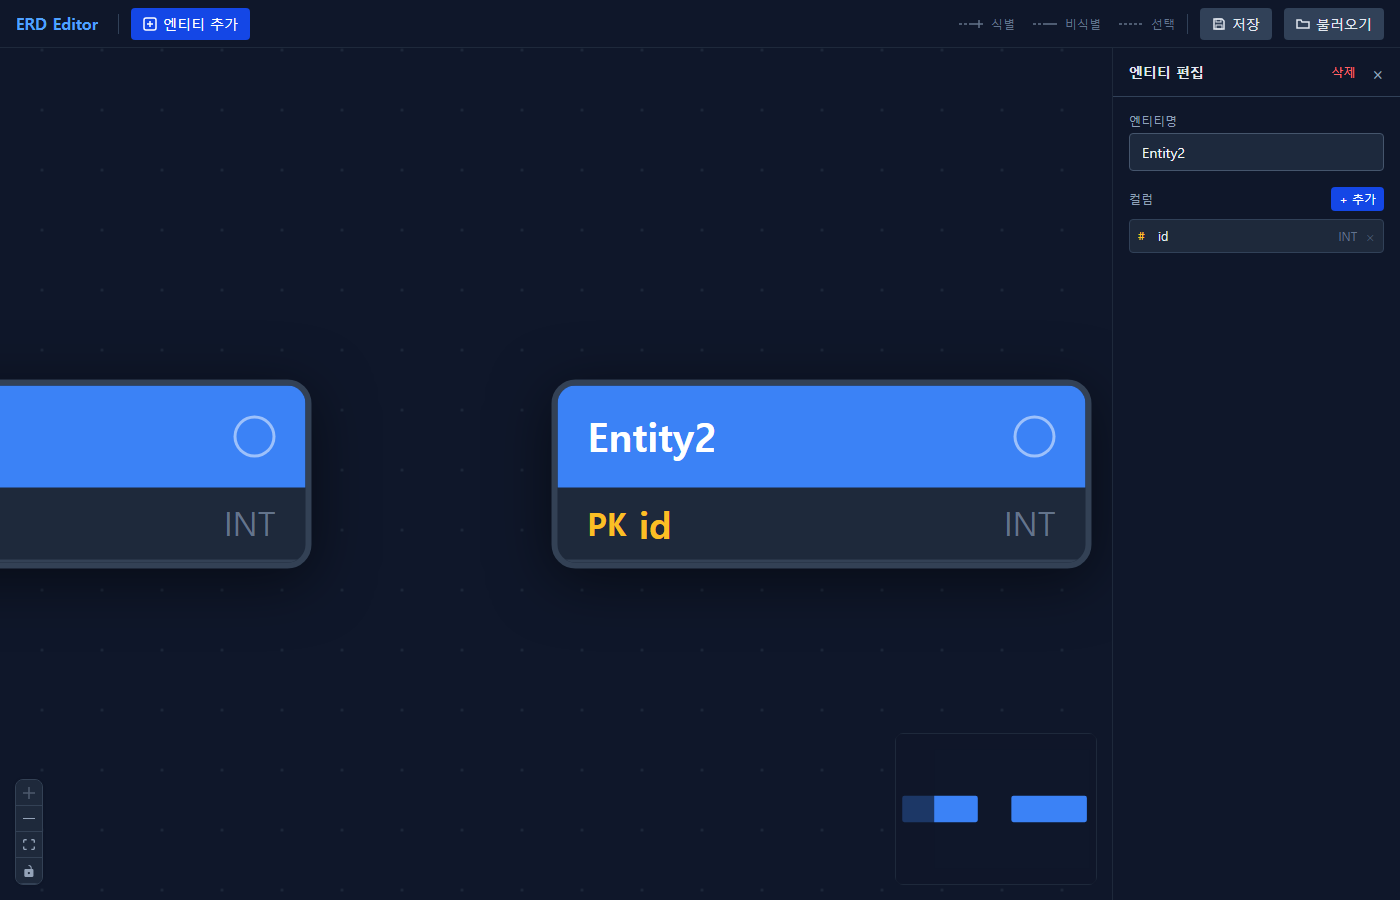
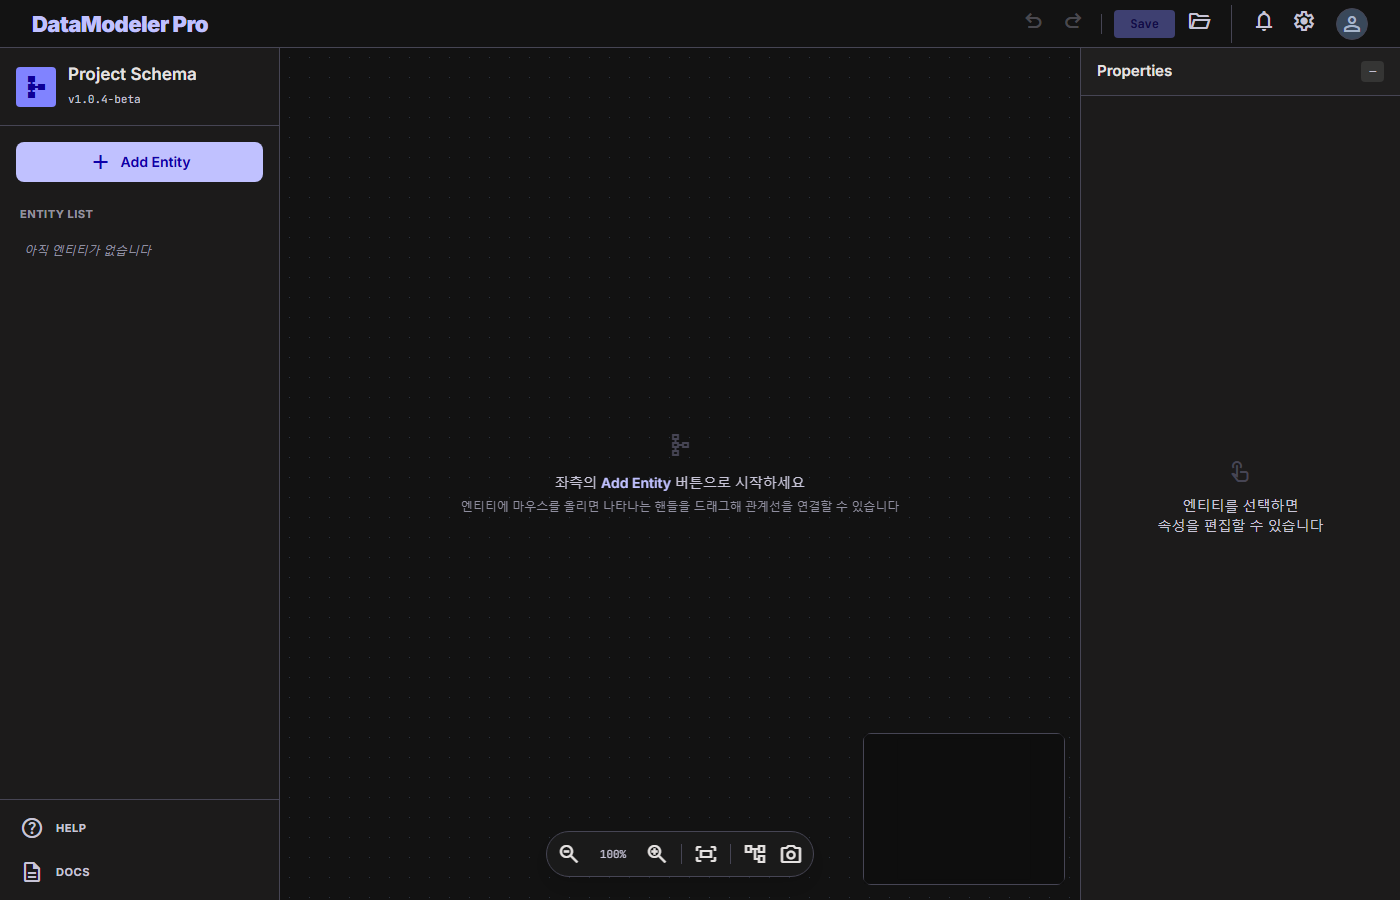
네이티브 다이얼로그를 커스텀 모달로 교체
- dialogStore(Promise 기반 alert/confirm/prompt) + DialogModal(danger 변형, Enter/Esc, 빈 입력 방지) 신규
- 다이어그램 이름 입력/이름 변경/삭제 확인/미저장 경고/실패 알림 전부 모달로 전환
- 확인창 없던 엔티티 삭제에 확인 모달 추가
- verify_backend.mjs 24항목 PASS, 회귀(verify_features 14항목) PASS

diff --git a/erd-service/src/store/diagramStore.ts b/erd-service/src/store/diagramStore.ts
@@ -2,6 +2,7 @@ import { create } from 'zustand';
 import { api, DiagramMeta } from '../api/client';
 import { useERDStore } from './erdStore';
 import { toERDData, fromERDData } from '../utils/erdData';
+import { alertDialog, confirmDialog, promptDialog } from './dialogStore';
 
 // DB 다이어그램 메타 상태 — 목록/현재 열린 다이어그램/미저장 변경(dirty) 추적
 // erdStore는 수정하지 않고 subscribe로만 변경을 감지한다
@@ -15,10 +16,10 @@ interface DiagramState {
   fetchList: () => Promise<void>;
   open: (id: number) => Promise<void>;
   saveCurrent: () => Promise<void>;
-  startNew: () => void;
+  startNew: () => Promise<void>;
   rename: (id: number) => Promise<void>;
   remove: (id: number) => Promise<void>;
-  confirmDiscard: () => boolean;
+  confirmDiscard: () => Promise<boolean>;
   reset: () => void;
 }
 
@@ -37,13 +38,18 @@ export const useDiagramStore = create<DiagramState>((set, get) => ({
   },
 
   // 미저장 변경이 있으면 사용자 확인 — true면 진행
-  confirmDiscard: () => {
+  confirmDiscard: async () => {
     if (!get().dirty) return true;
-    return window.confirm('저장하지 않은 변경사항이 있습니다. 계속할까요?');
+    return confirmDialog({
+      title: '저장되지 않은 변경',
+      message: '저장하지 않은 변경사항이 있습니다.\n계속하면 현재 작업 내용이 사라집니다.',
+      confirmText: '계속',
+      danger: true,
+    });
   },
 
   open: async (id) => {
-    if (!get().confirmDiscard()) return;
+    if (!(await get().confirmDiscard())) return;
     const diagram = await api.getDiagram(id);
     const { entities, relationships, positions } = fromERDData(diagram.data);
     suppressDirty = true;
@@ -62,23 +68,28 @@ export const useDiagramStore = create<DiagramState>((set, get) => ({
       if (currentId !== null) {
         await api.updateDiagram(currentId, data);
       } else {
-        const name = window.prompt('다이어그램 이름을 입력하세요', '새 다이어그램');
-        if (!name?.trim()) return;
-        const created = await api.createDiagram(name.trim(), data);
+        const name = await promptDialog({
+          title: 'DB에 저장',
+          message: '다이어그램 이름을 입력하세요',
+          defaultValue: '새 다이어그램',
+          placeholder: '예: 주문 시스템 ERD',
+        });
+        if (!name) return;
+        const created = await api.createDiagram(name, data);
         set({ currentId: created.id });
       }
       set({ dirty: false });
       await get().fetchList();
     } catch (err) {
-      alert(`저장 실패: ${(err as Error).message}`);
+      alertDialog(`저장에 실패했습니다.\n${(err as Error).message}`, '저장 실패');
     } finally {
       set({ saving: false });
     }
   },
 
   // 빈 캔버스에서 새로 시작 — 저장은 DB 저장 버튼에서 이름 입력으로
-  startNew: () => {
-    if (!get().confirmDiscard()) return;
+  startNew: async () => {
+    if (!(await get().confirmDiscard())) return;
     suppressDirty = true;
     useERDStore.getState().loadData([], [], {});
     suppressDirty = false;
@@ -87,14 +98,25 @@ export const useDiagramStore = create<DiagramState>((set, get) => ({
 
   rename: async (id) => {
     const current = get().list.find(d => d.id === id);
-    const name = window.prompt('새 이름을 입력하세요', current?.name ?? '');
-    if (!name?.trim()) return;
-    await api.renameDiagram(id, name.trim());
+    const name = await promptDialog({
+      title: '이름 변경',
+      message: '새 이름을 입력하세요',
+      defaultValue: current?.name ?? '',
+    });
+    if (!name) return;
+    await api.renameDiagram(id, name);
     await get().fetchList();
   },
 
   remove: async (id) => {
-    if (!window.confirm('이 다이어그램을 삭제할까요? 되돌릴 수 없습니다.')) return;
+    const current = get().list.find(d => d.id === id);
+    const ok = await confirmDialog({
+      title: '다이어그램 삭제',
+      message: `"${current?.name ?? ''}" 다이어그램을 삭제할까요?\n되돌릴 수 없습니다.`,
+      confirmText: '삭제',
+      danger: true,
+    });
+    if (!ok) return;
     await api.deleteDiagram(id);
     if (get().currentId === id) set({ currentId: null });
     await get().fetchList();

diff --git a/erd-service/src/components/common/DialogModal.tsx b/erd-service/src/components/common/DialogModal.tsx
@@ -1,0 +1,107 @@
+import { useEffect, useState } from 'react';
+import { useDialogStore } from '../../store/dialogStore';
+
+// 공용 알림/확인/입력 모달 — RelTypeModal·AuthModal과 동일한 오버레이 패턴
+
+export default function DialogModal() {
+  const { dialog, close } = useDialogStore();
+  const [value, setValue] = useState('');
+
+  useEffect(() => {
+    setValue(dialog?.kind === 'prompt' ? (dialog.defaultValue ?? '') : '');
+  }, [dialog]);
+
+  useEffect(() => {
+    if (!dialog) return;
+    const onKeyDown = (e: KeyboardEvent) => {
+      if (e.key === 'Escape') {
+        e.stopPropagation();
+        cancel();
+      }
+    };
+    window.addEventListener('keydown', onKeyDown, true);
+    return () => window.removeEventListener('keydown', onKeyDown, true);
+    // eslint-disable-next-line react-hooks/exhaustive-deps
+  }, [dialog]);
+
+  if (!dialog) return null;
+
+  const cancel = () => {
+    if (dialog.kind === 'alert') dialog.resolve();
+    else if (dialog.kind === 'confirm') dialog.resolve(false);
+    else dialog.resolve(null);
+    close();
+  };
+
+  const ok = () => {
+    if (dialog.kind === 'alert') dialog.resolve();
+    else if (dialog.kind === 'confirm') dialog.resolve(true);
+    else {
+      if (!value.trim()) return; // 빈 입력은 확인 불가
+      dialog.resolve(value.trim());
+    }
+    close();
+  };
+
+  const icon = dialog.kind === 'alert' ? 'info' : dialog.kind === 'confirm' ? (dialog.danger ? 'warning' : 'help') : 'edit';
+  const iconColor = dialog.kind === 'confirm' && dialog.danger ? 'text-red-400' : 'text-primary';
+
+  return (
+    <div
+      className="fixed inset-0 z-[60] flex items-center justify-center bg-black/60"
+      onClick={cancel}
+      data-testid="app-dialog"
+    >
+      <div
+        className="rounded-xl shadow-2xl overflow-hidden w-80 bg-surface-container border border-outline-variant"
+        onClick={e => e.stopPropagation()}
+      >
+        <div className="px-5 py-3 border-b border-outline-variant flex items-center gap-2">
+          <span className={`material-symbols-outlined text-[18px] ${iconColor}`}>{icon}</span>
+          <h3 className="text-sm font-semibold text-on-surface m-0">{dialog.title}</h3>
+        </div>
+
+        <div className="p-5 flex flex-col gap-4">
+          <p className="text-sm text-on-surface-variant m-0 whitespace-pre-line">{dialog.message}</p>
+
+          {dialog.kind === 'prompt' && (
+            <input
+              type="text"
+              value={value}
+              onChange={e => setValue(e.target.value)}
+              onKeyDown={e => { if (e.key === 'Enter') ok(); }}
+              placeholder={dialog.placeholder}
+              autoFocus
+              data-testid="dialog-input"
+              className="bg-surface border border-outline-variant rounded px-3 py-2 text-sm text-on-surface focus:border-primary outline-none"
+            />
+          )}
+
+          <div className="flex gap-2 justify-end">
+            {dialog.kind !== 'alert' && (
+              <button
+                className="px-4 py-1.5 rounded-lg text-xs font-semibold text-on-surface-variant hover:bg-surface-variant hover:text-on-surface transition-colors cursor-pointer"
+                onClick={cancel}
+                data-testid="dialog-cancel"
+              >
+                취소
+              </button>
+            )}
+            <button
+              className={`px-4 py-1.5 rounded-lg text-xs font-semibold transition-colors cursor-pointer active:scale-[0.98] disabled:opacity-40 ${
+                dialog.kind === 'confirm' && dialog.danger
+                  ? 'bg-red-500/90 text-white hover:bg-red-500'
+                  : 'bg-primary text-on-primary hover:bg-inverse-primary hover:text-white'
+              }`}
+              onClick={ok}
+              disabled={dialog.kind === 'prompt' && !value.trim()}
+              data-testid="dialog-ok"
+            >
+              {dialog.kind === 'confirm' ? (dialog.confirmText ?? '확인') : '확인'}
+            </button>
+          </div>
+        </div>
+      </div>
+    </div>
+  );
+}

diff --git a/erd-service/src/store/dialogStore.ts b/erd-service/src/store/dialogStore.ts
@@ -1,0 +1,57 @@
+import { create } from 'zustand';
+
+// 공용 다이얼로그 — window.alert/confirm/prompt 대체 (Promise 기반)
+
+interface AlertOptions {
+  title?: string;
+  message: string;
+}
+
+interface ConfirmOptions {
+  title?: string;
+  message: string;
+  confirmText?: string;
+  danger?: boolean; // 삭제 등 파괴적 동작 — 확인 버튼 빨간색
+}
+
+interface PromptOptions {
+  title?: string;
+  message: string;
+  defaultValue?: string;
+  placeholder?: string;
+}
+
+export type DialogState =
+  | ({ kind: 'alert'; resolve: () => void } & AlertOptions)
+  | ({ kind: 'confirm'; resolve: (ok: boolean) => void } & ConfirmOptions)
+  | ({ kind: 'prompt'; resolve: (value: string | null) => void } & PromptOptions);
+
+interface DialogStore {
+  dialog: DialogState | null;
+  show: (dialog: DialogState) => void;
+  close: () => void;
+}
+
+export const useDialogStore = create<DialogStore>((set) => ({
+  dialog: null,
+  show: (dialog) => set({ dialog }),
+  close: () => set({ dialog: null }),
+}));
+
+export function alertDialog(message: string, title = '알림'): Promise<void> {
+  return new Promise((resolve) => {
+    useDialogStore.getState().show({ kind: 'alert', message, title, resolve });
+  });
+}
+
+export function confirmDialog(options: ConfirmOptions): Promise<boolean> {
+  return new Promise((resolve) => {
+    useDialogStore.getState().show({ kind: 'confirm', title: '확인', ...options, resolve });
+  });
+}
+
+export function promptDialog(options: PromptOptions): Promise<string | null> {
+  return new Promise((resolve) => {
+    useDialogStore.getState().show({ kind: 'prompt', title: '입력', ...options, resolve });
+  });
+}

diff --git a/erd-service/src/components/panels/EntityEditPanel.tsx b/erd-service/src/components/panels/EntityEditPanel.tsx
@@ -1,6 +1,7 @@
 import { useState } from 'react';
 import { useERDStore } from '../../store/erdStore';
 import { COLUMN_TYPES, Column, ColumnType, ENTITY_COLORS } from '../../types/erd';
+import { confirmDialog } from '../../store/dialogStore';
 
 // 디자인 시안의 Right Property Editor — 상시 표시되며 선택된 엔티티의 속성을 편집.
 // 변경은 기존과 동일하게 실시간 반영 (시안의 Cancel/Apply는 해당 없음)
@@ -26,7 +27,15 @@ export default function EntityEditPanel() {
             <>
               <button
                 className="text-on-surface-variant hover:text-error transition-colors flex items-center cursor-pointer"
-                onClick={() => deleteEntity(entity.id)}
+                onClick={async () => {
+                  const ok = await confirmDialog({
+                    title: '엔티티 삭제',
+                    message: `"${entity.name}" 엔티티를 삭제할까요?\n연결된 관계선도 함께 삭제됩니다.`,
+                    confirmText: '삭제',
+                    danger: true,
+                  });
+                  if (ok) deleteEntity(entity.id);
+                }}
                 title="엔티티 삭제"
               >
                 <span className="material-symbols-outlined text-[18px]">delete</span>

diff --git a/erd-service/src/components/toolbar/Toolbar.tsx b/erd-service/src/components/toolbar/Toolbar.tsx
@@ -4,6 +4,7 @@ import { useAuthStore } from '../../store/authStore';
 import { useDiagramStore } from '../../store/diagramStore';
 import { saveERD, loadERD } from '../../utils/fileIO';
 import { fromERDData } from '../../utils/erdData';
+import { alertDialog } from '../../store/dialogStore';
 
 // 디자인 시안의 TopNavBar — 알림/설정은 현재 기능이 없는 비활성 placeholder,
 // Save(JSON)/불러오기는 파일 저장, 로그인 시 DB 저장(cloud) 버튼 추가
@@ -30,7 +31,7 @@ export default function Toolbar() {
       const { entities: loaded, relationships: rels, positions } = fromERDData(data);
       loadData(loaded, rels, positions);
     } catch (err) {
-      alert((err as Error).message);
+      alertDialog((err as Error).message, '불러오기 실패');
     }
     if (fileInputRef.current) fileInputRef.current.value = '';
   };

diff --git a/erd-service/src/components/canvas/ERDCanvas.tsx b/erd-service/src/components/canvas/ERDCanvas.tsx
@@ -23,6 +23,7 @@ import RelationshipEdge from '../edges/RelationshipEdge';
 import RelTypeModal from '../panels/RelTypeModal';
 import { computeAutoLayout } from '../../utils/autoLayout';
 import { exportDiagramPng } from '../../utils/exportImage';
+import { alertDialog } from '../../store/dialogStore';
 
 const nodeTypes = { entity: EntityNode };
 const edgeTypes = { relationship: RelationshipEdge };
@@ -45,7 +46,7 @@ function ZoomToolbar() {
     try {
       await exportDiagramPng(getNodes());
     } catch (err) {
-      alert((err as Error).message);
+      alertDialog((err as Error).message, 'PNG 내보내기 실패');
     }
   };
 

diff --git a/erd-service/src/App.tsx b/erd-service/src/App.tsx
@@ -4,6 +4,7 @@ import Sidebar from './components/sidebar/Sidebar';
 import ERDCanvas from './components/canvas/ERDCanvas';
 import EntityEditPanel from './components/panels/EntityEditPanel';
 import AuthModal from './components/auth/AuthModal';
+import DialogModal from './components/common/DialogModal';
 import { useERDStore } from './store/erdStore';
 import { useAuthStore } from './store/authStore';
 
@@ -47,6 +48,7 @@ function App() {
         <EntityEditPanel />
       </div>
       {modalOpen && <AuthModal />}
+      <DialogModal />
     </div>
   );
 }

diff --git a/erd-service/src/store/authStore.ts b/erd-service/src/store/authStore.ts
@@ -49,7 +49,7 @@ export const useAuthStore = create<AuthState>((set) => ({
   },
 
   logout: async () => {
-    if (!useDiagramStore.getState().confirmDiscard()) return;
+    if (!(await useDiagramStore.getState().confirmDiscard())) return;
     try {
       await api.logout();
     } finally {

diff --git a/CLAUDE.md b/CLAUDE.md
@@ -19,4 +19,5 @@
 | 2026-06-07 | 상단 GNB placeholder 메뉴·범례 제거 | 프론트엔드 | 사용하지 않는 File/Edit/View/Export 메뉴 4개와 식별/비식별/선택 Barker 범례 제거 — 브랜드·Undo/Redo·Save·불러오기·알림/설정/아바타는 유지 (`Toolbar.tsx` 수정, LegendItem 삭제, `verify_gnb_cleanup.mjs` e2e 14항목 PASS, 회귀 verify_design PASS) |
 | 2026-06-07 | 프로덕션 Node 서버 추가 | 서버 | Ubuntu 배포용 단일 Node 프로세스 구성 — Fastify 기반 `server/index.js` 신규(dist 정적 서빙 + SPA fallback, /api/*는 404 JSON으로 제외해 향후 백엔드 라우트 추가 지점 확보), `npm start` 스크립트·fastify/@fastify/static 의존성 추가. 포트는 PORT 환경변수(기본 8080). `verify_server.mjs` e2e 8항목 PASS, 회귀(verify_sidebar_cleanup, 8080 대상) PASS |
 | 2026-06-07 | package-lock 동기화 수정 | 의존성 | Ubuntu 서버 `npm ci` 실패(EUSAGE — `@emnapi/core`·`@emnapi/runtime` 락파일 누락) 해결 — Windows에서 생성된 락파일에 wasm32-wasi optional 패키지의 의존성 항목이 빠지는 npm 크로스 플랫폼 버그. 1차 락파일 재생성으로 부족해 2차로 `@emnapi/core`·`@emnapi/runtime@1.10.0`을 devDependencies에 명시 추가해 락파일 항목 강제 생성. 빌드 산출물 해시 동일(회귀 없음), `npm ci --dry-run` PASS |
+| 2026-06-07 | 네이티브 다이얼로그 → 커스텀 모달 교체 | 프론트엔드 | window.confirm/prompt/alert 전부를 디자인 시스템 모달로 교체 — `dialogStore.ts`(Promise 기반 alert/confirm/prompt)·`DialogModal.tsx`(danger 변형, Enter/Esc, 빈 입력 방지) 신규. 다이어그램 저장 이름 입력·이름 변경·삭제 확인·전환/로그아웃 시 미저장 경고·불러오기/PNG/저장 실패 알림에 적용, 확인창 없던 엔티티 삭제에도 확인 모달 추가. `verify_backend.mjs` 24항목으로 확장 PASS, 회귀(verify_features 14항목) PASS. ※ verify_barker는 디자인 개편 이전 버튼 텍스트를 쓰는 구버전이라 개편 시점부터 동작 불가(이번 변경과 무관) |
 | 2026-06-07 | 로그인 + 다이어그램 DB 저장 백엔드 | 백엔드+프론트엔드 | 아이디/비밀번호 가입·로그인(JWT httpOnly 쿠키, scrypt 해싱)과 사용자별 다이어그램 DB 저장(PostgreSQL JSONB, DATABASE_URL 미설정 시 pg-mem 폴백) 추가 — `server/db.js`·`auth-routes.js`·`diagram-routes.js` 신규, `src/api/client.ts`·`authStore.ts`·`diagramStore.ts`(dirty 추적)·`AuthModal.tsx`·`utils/erdData.ts` 신규, Toolbar(DB 저장 버튼·아바타 로그인/로그아웃)·Sidebar(내 다이어그램 목록: 전환/이름변경/삭제)·vite proxy 수정. 비로그인 사용·PNG 내보내기·JSON 파일 Save/불러오기는 기존 그대로 유지. `verify_backend.mjs` e2e 19항목 PASS, 회귀(verify_server·verify_gnb_cleanup·verify_features 14항목) PASS |
